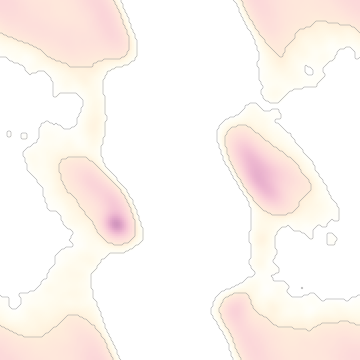
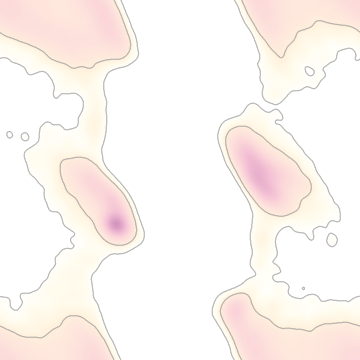
Ramaplot updates
Plot background has thicker lines now.
Command line options fixed.
Add possibility to make larger backgrounds by scale.

diff --git a/src/rama_plot.cc b/src/rama_plot.cc
@@ -934,7 +934,7 @@ coot::rama_plot::make_background_from_image(const clipper::Ramachandran rama_typ
    abs_file_name += file_name;
 
    // check if file exists? Done by pixbuf I guess
-   pixbuf = gdk_pixbuf_new_from_file(abs_file_name.c_str(), NULL);
+   pixbuf = gdk_pixbuf_new_from_file_at_size(abs_file_name.c_str(), 360, 360, NULL);
    if (pixbuf) {
       item = goo_canvas_image_new(bg_group, pixbuf,
                                   -180.0, -180.0,
@@ -1177,6 +1177,9 @@ coot::rama_plot::make_isolines(const clipper::Ramachandran rama_type, GooCanvasI
    int config;
    int start_angle;
    int end_angle;
+   float line_width;
+
+   line_width = 1.0;
 
    if (psi_axis_mode == PSI_CLASSIC) {
       start_angle = -180.0;
@@ -1207,7 +1210,7 @@ coot::rama_plot::make_isolines(const clipper::Ramachandran rama_type, GooCanvasI
                                                 x2,y2,
 //                                                "stroke-color", "black",
                                                 "stroke-color", "grey60",
-                                                "line-width", 0.5,
+                                                "line-width", line_width,
 				NULL);
          }
       }
@@ -3550,9 +3553,13 @@ coot::rama_plot::make_bg_images() {
 void
 coot::rama_plot::write_png_simple(std::string &file_name, GooCanvasItem *item) {
 
+   float scale;
    gdouble x1, y1, x2, y2;
    int size_x;
    int size_y;
+   // If you ever want to enlarge the Rama background images, then increase
+   // this scale. The block size should be lowered at the same time.
+   scale = 1.;
    if (item) {
       gdouble width, height;
       g_object_get(GOO_CANVAS_GROUP(item),
@@ -3577,13 +3584,16 @@ coot::rama_plot::write_png_simple(std::string &file_name, GooCanvasItem *item) {
       size_y = (int)y2 - (int)y1;
    }
 
+   size_x*=scale;
+   size_y*=scale;
    cairo_surface_t *surface = cairo_image_surface_create(CAIRO_FORMAT_ARGB32, size_x, size_y);
    cairo_t *cr = cairo_create (surface);
    /* move closer to the centre
    Not sure where to move x1, y1 or centre?!*/
    cairo_translate (cr, size_x/2, size_y/2);
+   cairo_scale (cr, scale, scale);
 
-   goo_canvas_render (GOO_CANVAS(canvas), cr, NULL, 1.0);
+   goo_canvas_render (GOO_CANVAS(canvas), cr, NULL, scale);
    cairo_surface_write_to_png(surface, file_name.c_str());
    cairo_surface_destroy (surface);
    cairo_destroy (cr);

diff --git a/src/dynarama-main.cc b/src/dynarama-main.cc
@@ -86,7 +86,6 @@ print_help(std::string cmd) {
              << "\n";
    std::cout << "     where pdbin is the protein and pdbin2 a second one for a Kleywegt plot.\n";
 
-
 }
 
 int
@@ -258,13 +257,18 @@ main(int argc, char *argv[]) {
          do_help = false;
          break;
 
+      case '?':
+         std::cout << "Unrecognised option: " << optopt << std::endl;
+         break;
+
       default:
          std::cout << "default coot_optarg: " << coot_optarg << std::endl;
          break;
       }
    }
 
-   for (index = optind; index < argc; index++) {
+   // any unhandled arguments which could be a pdb?
+   for (index = n_used_args+1; index < argc; index++) {
       if (coot::util::extension_is_for_coords(coot::util::file_name_extension(argv[index])))
          pdb_file_name = argv[index];
       else {
@@ -484,6 +488,9 @@ main(int argc, char *argv[]) {
 
       gtk_init(&argc, &argv);
    }
+
+   std::cout << "BL DBEUG:: returning now n_used_args" << n_used_args <<std::endl;
+
    return 0;
 
 }
